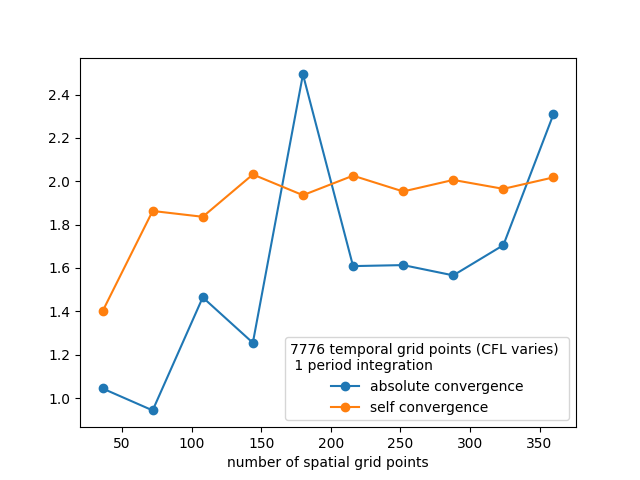
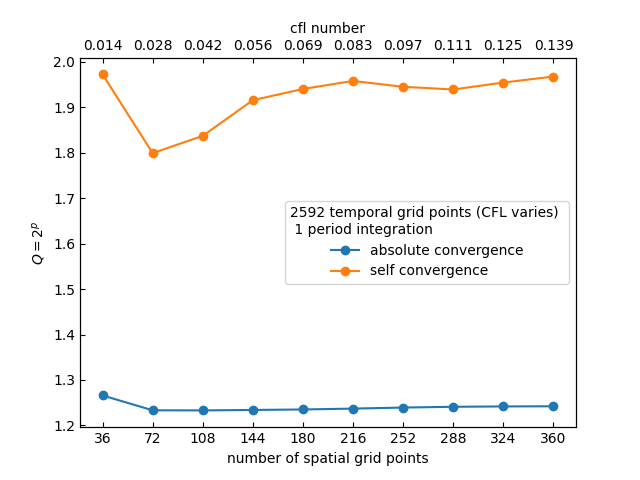
norm instead of mean

diff --git a/python/wave_convergence.py b/python/wave_convergence.py
@@ -5,18 +5,29 @@ from solver import gridmaker, gaussian, gaussian_drv, wave_evolution1D
 import math
 
 
-def convergence(analytical, num_h, num_half_h):
-    n = len(analytical)
-    Q = [0]*n
+def abs_convergence(analytical, num_h, num_half_h):
+    print(np.shape(analytical))
+    n = len(num_h)
+    Q = 0
+    Z = [0]*n
+    N = [0]*n
     for i in range(n):
-        Q[i] = abs(analytical[i]-num_h[i])/abs(analytical[i]-num_half_h[i])
+        Z[i] = (analytical[i]-num_h[i])**2
+        N[i] = (analytical[i]-num_half_h[i])**2
+    # print(np.sqrt(sum(Z)) , np.sqrt(sum(N)))
+    Q = np.sqrt(sum(Z))/np.sqrt(sum(N))
+    # print('abs conv ',Q)
     return Q
 
 def self_convergence(num_h, num_half_h, num_quater_h):
     n = len(num_h)
-    Q = [0]*n
+    Q = 0
+    Z = [0]*n
+    N = [0]*n
     for i in range(n):
-        Q[i] = abs(num_h[i]-num_half_h[i])/abs(num_half_h[i]-num_quater_h[i])
+        Z[i] = abs(num_h[i]-num_half_h[i])**2
+        N[i] = abs(num_half_h[i]-num_quater_h[i])**2
+    Q = np.sqrt(sum(Z)) / np.sqrt(sum(N))
     return Q
 
 def phi_select(phi,s):
@@ -30,11 +41,9 @@ def phi_select(phi,s):
 
 
 def convergence_test_T_var(endT,Nt,endX,Nx,T,tests_T,startfunction,startfunction_prime):
-    # print('input: ',endT,Nt,endX,Nx,T,tests_T   )
-    # nt_conv:  Zeitpunkt in Zeitschritten, bei dem
-    #           eine Periode vergangen ist
+# nt_conv:  Zeitpunkt in Zeitschritten, bei dem
+#           eine Periode vergangen ist
     nt_conv = int(Nt*T)
-    # print('nt_conv = ', nt_conv)
     Phis = np.zeros((3,Nt,Nx))
 # calculate 3 different phis vor 3 different
 # spatial grid resolutions
@@ -55,18 +64,18 @@ def convergence_test_T_var(endT,Nt,endX,Nx,T,tests_T,startfunction,startfunction
         Phi = phi_select(Phi,2**k)
         Phis[k,:,:] = Phi
 # do the convergence tests
-    # initialize arrays
-    abs_conv = np.zeros((tests_T, Nx))
-    self_conv = np.zeros((tests_T, Nx))
+    # initialize
+        abs_conv = np.zeros(tests_T)
+        self_conv = np.zeros(tests_T)
     for k in range(tests_T):
-    # set stage for convergence tests
+    # select Phi at exact periods t = T
         analytical = startfunction(np.linspace(0,endX,Nx))
         num_h = Phis[0, (k+1)*nt_conv, :]
         num_half_h = Phis[1, (k+1)*nt_conv, :]
         num_quater_h = Phis[2, (k+1)*nt_conv, :]
     # perform convergence tests
-        abs_conv[k,:] = convergence(analytical, num_h, num_half_h)
-        self_conv[k,:] = self_convergence(num_h, num_half_h, num_quater_h)
+        abs_conv[k] = abs_convergence(analytical, num_h, num_half_h)
+        self_conv[k] = self_convergence(num_h, num_half_h, num_quater_h)
     return abs_conv, self_conv
 
 def convergence_test_h_var(endT,Nt,endX,Nx,T_per,tests_h,startfunction,startfunction_prime):
@@ -82,22 +91,6 @@ def convergence_test_cfl_var(endT,Nt,endX,Nx,T_per,tests_cfl,startfunction,start
     for i in range(tests_cfl):
         abs_conv[i],self_conv[i] = convergence_test_T_var(endT,(i+1)*Nt,endX,(i+1)*Nx,T_per,1,startfunction,startfunction_prime)
     return abs_conv, self_conv
-
-def convergence_mean(a):
-    if isinstance(a, list):
-        d1 = len(a)
-    else:
-        d1 = np.shape(a)[0]
-    # print(d1)
-    means = np.zeros((d1))
-    if isinstance(a, list):
-        for i in range(d1):
-            means[i] = np.mean(a[i])
-    else:
-        for i in range(d1):
-            means[i] = np.mean(a[i,:])
-    # print(np.shape(means))
-    return means
 
 def plot_convergence(abs_conv, self_conv, xvalues,tests):
     fig, (ax1,ax2) = plt.subplots(2,figsize=(10, 8))
@@ -120,43 +113,69 @@ def plot_convergence(abs_conv, self_conv, xvalues,tests):
     fig.savefig("wave-convergence.png")
     plt.show()
 
-
-def plot_means_T(abs_conv_mean,self_conv_mean,tests_T,Nx,Nt):
+def plot_norms_T(abs_conv,self_conv,tests_T,Nx,Nt):
     Ts = range(1,tests_T+1)
     # print(np.shape(Ts))
     fig, (ax1) = plt.subplots(1)
-    ax1.plot(Ts,abs_conv_mean,'o-', label= 'absolute convergence' )
-    ax1.plot(Ts,self_conv_mean,'o-', label= 'self convergence' )
+    ax1.plot(Ts,abs_conv,'o-', label= 'absolute convergence' )
+    ax1.plot(Ts,self_conv,'o-', label= 'self convergence' )
     ax1.legend(title='%d temporal grid points (CFL fixed) \n %d spatial grid points' %(Nt,Nx))
-    ax1.set(xlabel = 'periods integrated')
+    ax1.set(xlabel = 'periods integrated', ylabel = '$Q= 2^p$')
     ax1.grid(color = 'gainsboro')
     plt.show()
 
-def plot_means_h(abs_conv_mean,self_conv_mean,tests_h,Nx,Nt):
+def plot_norms_h(abs_conv,self_conv,tests_h,Nx,Nt):
     Nxs = np.arange(Nx,(tests_h+1)*Nx,Nx)
     print(Nxs)
     # print(np.shape(Ts))
     fig, (ax1) = plt.subplots(1)
-    ax1.plot(Nxs,abs_conv_mean,'o-', label= 'absolute convergence' )
-    ax1.plot(Nxs,self_conv_mean,'o-', label= 'self convergence' )
+    ax2 = ax1.twiny()
+    ax1.plot(Nxs,abs_conv,'o-', label= 'absolute convergence' )
+    ax1.plot(Nxs,self_conv,'o-', label= 'self convergence' )
     ax1.legend(title='%d temporal grid points (CFL varies) \n 1 period integration' %Nt)
-    ax1.set(xlabel = 'number of spatial grid points')
+    ax1.set(xlabel = 'number of spatial grid points', ylabel = '$Q= 2^p$')
+    ax1.grid(color = 'gainsboro')
+    def tick_function(Nxs):
+        CFLS = Nxs/Nt
+        return ["%.3f" % z for z in CFLS]
+    ax1.set_xticks(Nxs)
+    ax2.set_xticks(ax1.get_xticks())
+    # ax2.set_xbound(ax1.get_xbound())
+    ax2.set_xlim(ax1.get_xlim())
+    ax1.tick_params(axis = 'y',direction = 'in')
+    ax1.tick_params( axis = 'x', direction = 'in')
+    ax2.tick_params(direction = 'in')
+    ax2.set_xticklabels(tick_function(Nxs))
+    ax2.set_xlabel('cfl number')
     plt.show()
 
-def plot_means_cfl(abs_conv_mean,self_conv_mean,tests_cfl,Nx,Nt):
-    print('plotting')
+def plot_norms_cfl(abs_conv,self_conv,tests_cfl,Nx,Nt):
     cfl = Nx/Nt
     Nxs = np.arange(Nx,(tests_cfl+1)*Nx,Nx)
-    print(Nxs)
-    # print(np.shape(Ts))
+    # print('plotting')
+    # print('plot input: (abs_conv)', abs_conv, '(self_conv)', self_conv)
+    # print('Nxs: ', Nxs)
+    # print(np.shape(Nxs))
     fig, (ax1) = plt.subplots(1)
-    ax1.plot(Nxs,abs_conv_mean,'o-', label= 'absolute convergence' )
-    ax1.plot(Nxs,self_conv_mean,'o-', label= 'self convergence' )
+    ax2 = ax1.twiny()
+    ax1.plot(Nxs,abs_conv,'o-', label= 'absolute convergence' )
+    ax1.plot(Nxs,self_conv,'o-', label= 'self convergence' )
     ax1.legend(title='CFL fixed: %.3f \n 1 period integration' %cfl)
-    ax1.set(xlabel = 'number of spatial grid points')
+    ax1.set(xlabel = 'number of spatial grid points', ylabel = '$Q= 2^p$' )
     ax1.grid(color = 'gainsboro')
+    def tick_function(Nxs):
+        Nts = cfl * Nxs
+        return ["%.3f" % z for z in Nts]
+    ax1.set_xticks(Nxs)
+    ax2.set_xticks(ax1.get_xticks())
+    # ax2.set_xbound(ax1.get_xbound())
+    ax2.set_xlim(ax1.get_xlim())
+    ax1.tick_params(axis = 'y',direction = 'in')
+    ax1.tick_params( axis = 'x', direction = 'in')
+    ax2.tick_params(direction = 'in')
+    ax2.set_xticklabels(tick_function(Nxs))
+    ax2.set_xlabel('number of temporal grid points')
     plt.show()
-
 
 #--------------------------------------------------
 #--------------------------------------------------
@@ -169,13 +188,11 @@ if __name__ == "__main__":
     endX = 1
     Nx = 6**2
     T_per = 1/6 #T: Periodenlaenge
-    n_tests_T = 5 # tests: Anzahl der Konvergenztests
-    n_tests_h = 5
+    n_tests_T = 5 # n_tests_T: Anzahl der perioden für die Konvergenz getestet wird
+    n_tests_h = 10 # n_tests_h: Anzahl der x-Diskret. für die Konvergenz getestet wird
     n_tests_cfl = 10
-# test()
 
     # dt, timevalues, dx, xvalues = gridmaker(endT,Nt,endX,Nx)
-
 # choose f_4, f_5, g_a (for latter specify a = ...)
 # or gaussian here (for latter specify sigma and mu)
     mu = 0.5
@@ -186,35 +203,18 @@ if __name__ == "__main__":
     # phi0 = g_a(xvalues,a)#
     # Pi0 =  g_a_prime(xvalues,a)
     # phi0 = gaussian(xvalues,sigma,mu)
-    # Pi0 = -c * gaussian_drv(xvalues,sigma,mu)
-
+    # Pi0 = -c*gaussian_drv(xvalues,sigma,mu)
 # run convergence test for grid resolution
     # abs_conv, self_conv = convergence_test_h_var(endT,Nt,endX,Nx,T_per,n_tests_h,f_4,f_4_prime)
-    # abs_conv_mean = convergence_mean(abs_conv)
-    # self_conv_mean = convergence_mean(self_conv)
-    # plot_means_h(abs_conv_mean,self_conv_mean,n_tests_h,Nx,Nt)
-
+    # plot_norms_h(abs_conv,self_conv,n_tests_h,Nx,Nt)
 # run convergence test for up to 6 periods
     # abs_conv, self_conv = convergence_test_T_var(endT,Nt,endX,Nx,T_per,n_tests_T,f_4,f_4_prime)
-    # abs_conv_mean = convergence_mean(abs_conv)
-    # self_conv_mean = convergence_mean(self_conv)
-    # plot_means_T(abs_conv_mean,self_conv_mean,n_tests_T,Nx,Nt)
-
+    # plot_norms_T(abs_conv,self_conv,n_tests_T,Nx,Nt)
 # run convergence test for CFL number
     abs_conv, self_conv = convergence_test_cfl_var(endT,Nt,endX,Nx,T_per,n_tests_cfl,f_4,f_4_prime)
-    abs_conv_mean = convergence_mean(abs_conv)
-    self_conv_mean = convergence_mean(self_conv)
-    plot_means_cfl(abs_conv_mean,self_conv_mean,n_tests_cfl,Nx,Nt)
-    # plot_convergence(abs_conv, self_conv, xvalues, n_tests_T)
+    plot_norms_cfl(abs_conv,self_conv,n_tests_cfl,Nx,Nt)
 
     # print('Format Phi_0:', np.shape(Phi0))
     # print('Format Pi_0:', np.shape(Pi0))
     # print('Format Phi:', np.shape(Phi))
     # print('Format Pi:', np.shape(Phi))
-
-# def test():
-#     a = [1,2,3]
-#     n1 = [1.1,1.5,2]
-#     n2 = [1.01,1.8,2.5]
-#     n3 = [1.011,1.9,2.6]
-#     print(convergence(a,n1,n2), self_convergence(n1,n2,n3))
